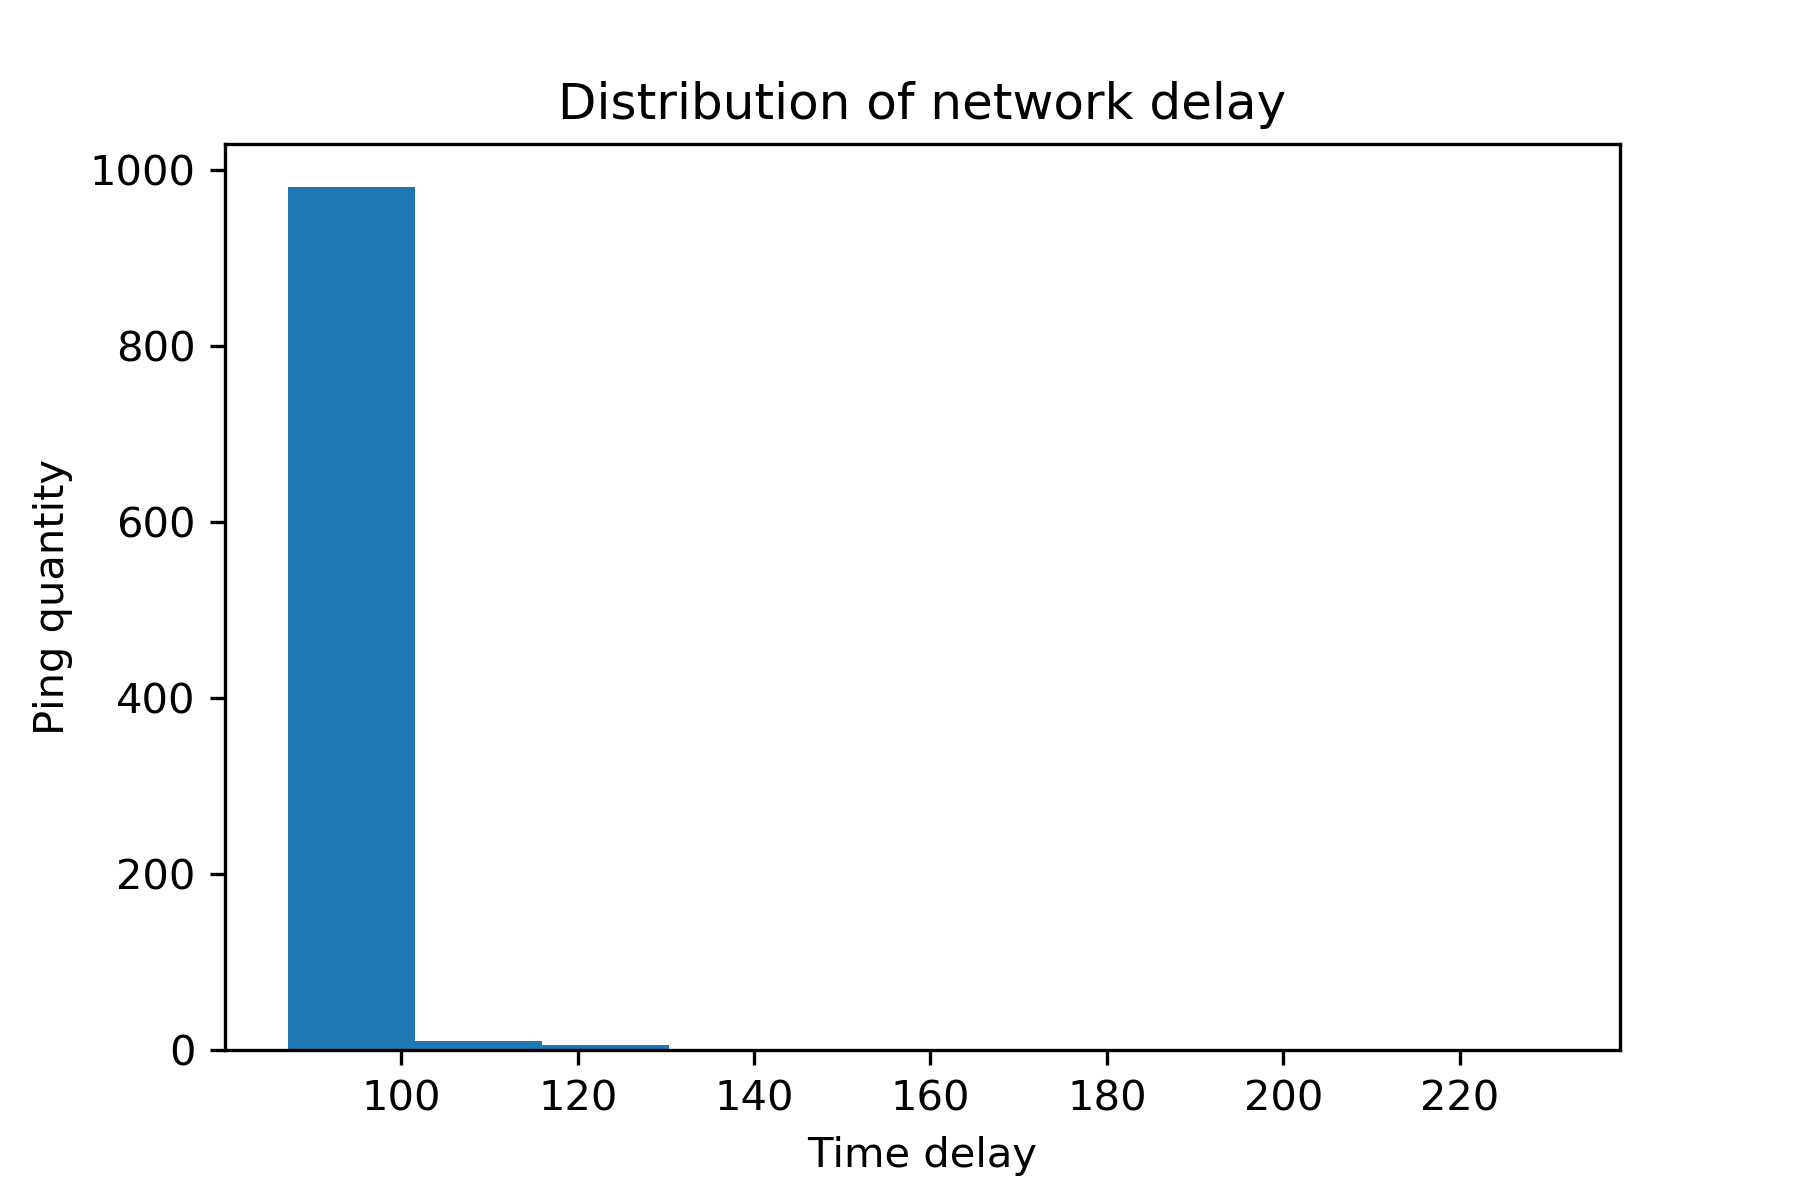
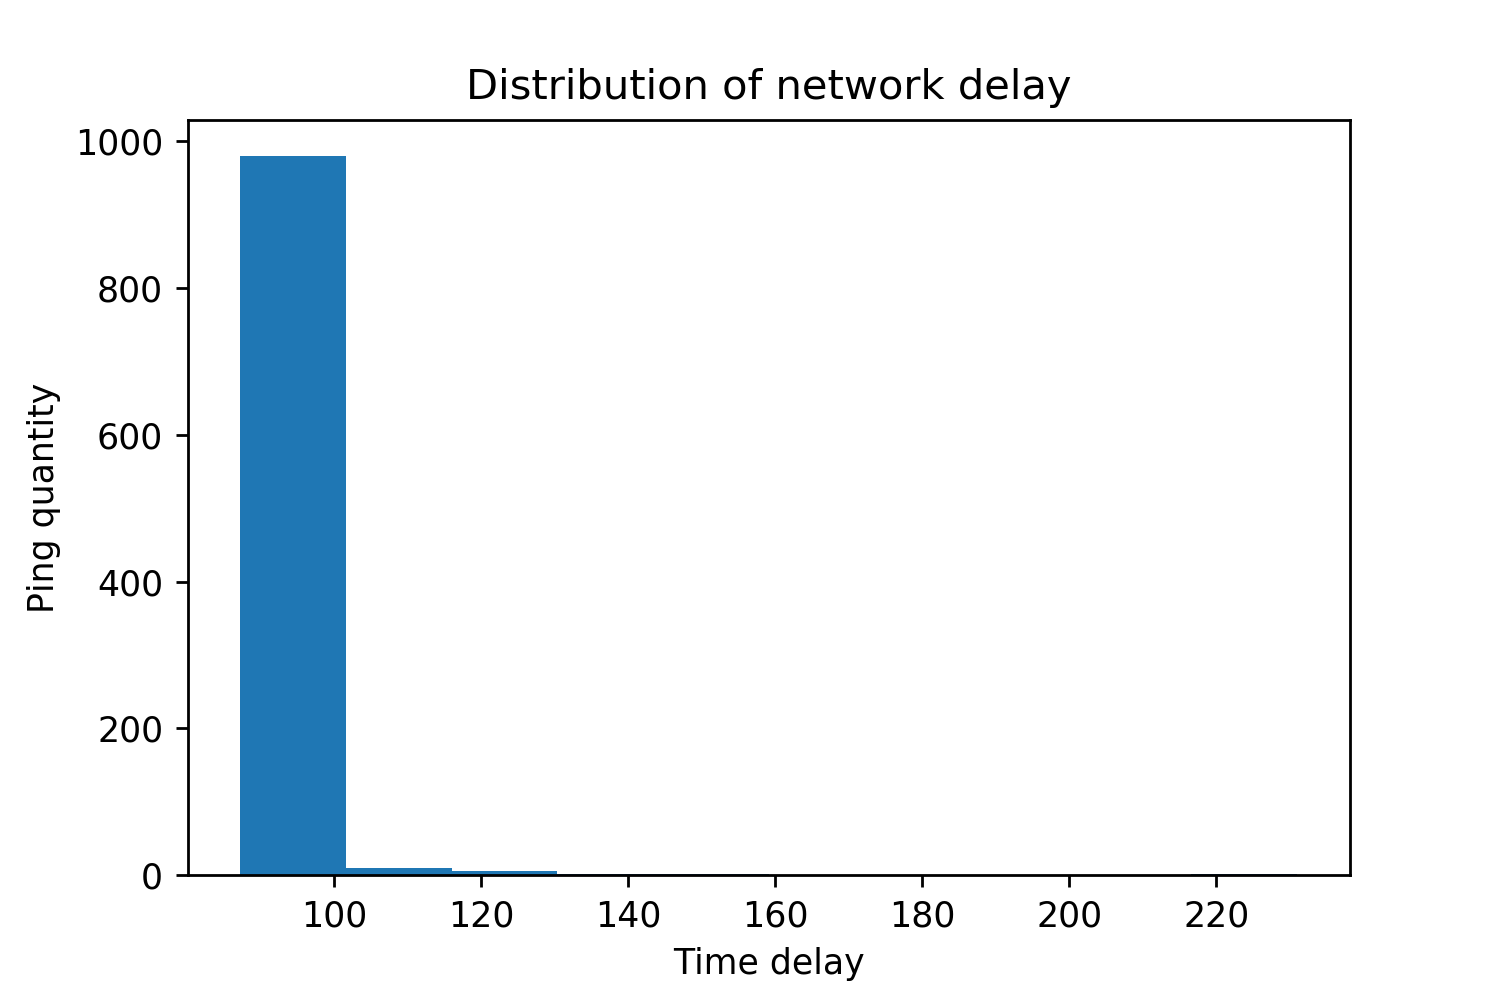
add files

diff --git a/Research_of_the_distribution_of_network_delay/Ping_research.py b/Research_of_the_distribution_of_network_delay/Ping_research.py
@@ -17,4 +17,4 @@ plt.xlabel('Time delay')
 plt.ylabel('Ping quantity')
 #plt.show()
 print('Average time delay: ', total / 1000)
-plt.savefig('result.png', dpi=500)
+plt.savefig('result.png', dpi=250)
